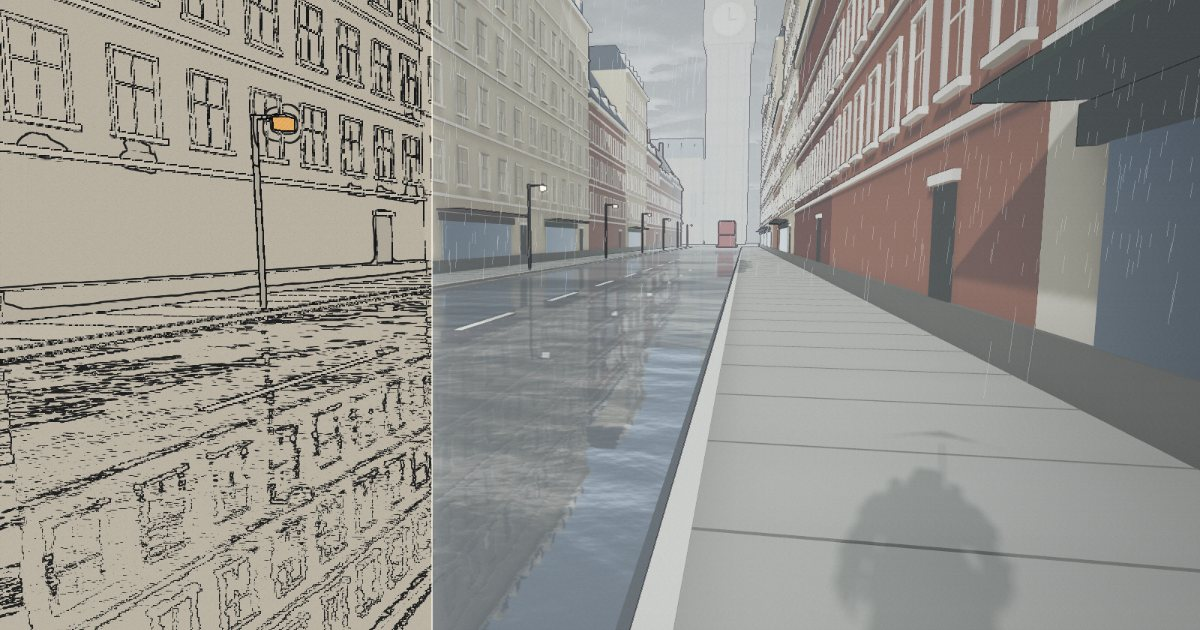
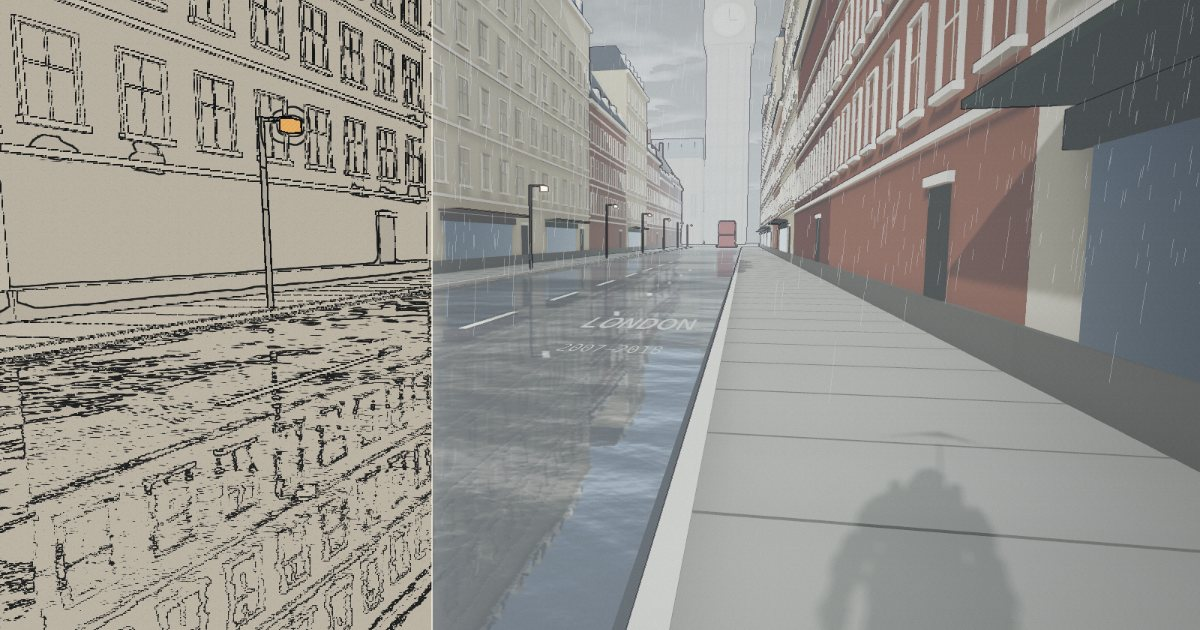
Road paint: London's name above the wet sheen; posters show the painted street
Claude-Session: https://claude.ai/code/session_01JcAdUSaCEjGexocHKPP4qV

diff --git a/js/walk.js b/js/walk.js
@@ -299,7 +299,8 @@ export async function createWalk({ canvas, assets = './assets/', onProgress = ()
     const ray = new THREE.Raycaster(new THREE.Vector3(x, 6, z), new THREE.Vector3(0, -1, 0), 0, 12);
     c.static.updateMatrixWorld(true);
     const hit = ray.intersectObject(c.static, true)[0];
-    mesh.position.set(x, (hit ? hit.point.y : 0) + 0.004, z);
+    mesh.position.set(x, (hit ? hit.point.y : 0) + (C.weather === 'rain' ? 0.02 : 0.004), z);   // above the wet sheen in London
+    mesh.renderOrder = 2;
     c.root.add(mesh);
   }
   function lightFill() { hemi.intensity = hemiBase * (city && city.baked && useBaked ? BAKED_HEMI : 1); }

diff --git a/index.html b/index.html
@@ -556,7 +556,7 @@
 
 <script type="importmap">{ "imports": { "three": "./lib/three.module.min.js", "three/addons/": "./lib/addons/" } }</script>
 <script type="module">
-import { createWalk } from './js/walk.js?v=5ab76c5d';
+import { createWalk } from './js/walk.js?v=f42e2935';
 import { createSky } from './js/sky.js?v=62e90914';
 import { PUBS, THEMES } from './js/pubs.js?v=d0ccaa0d';
 
